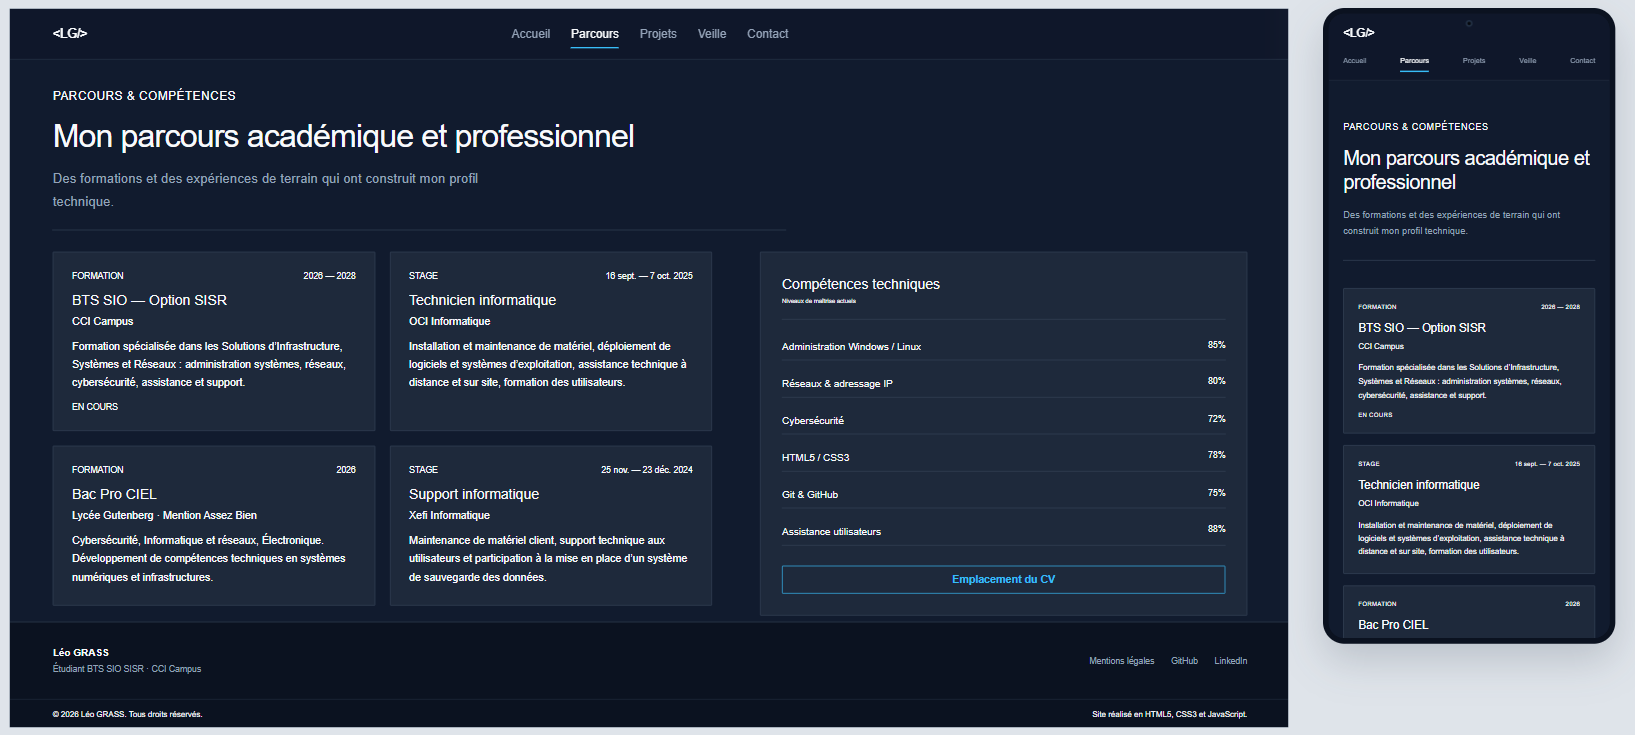
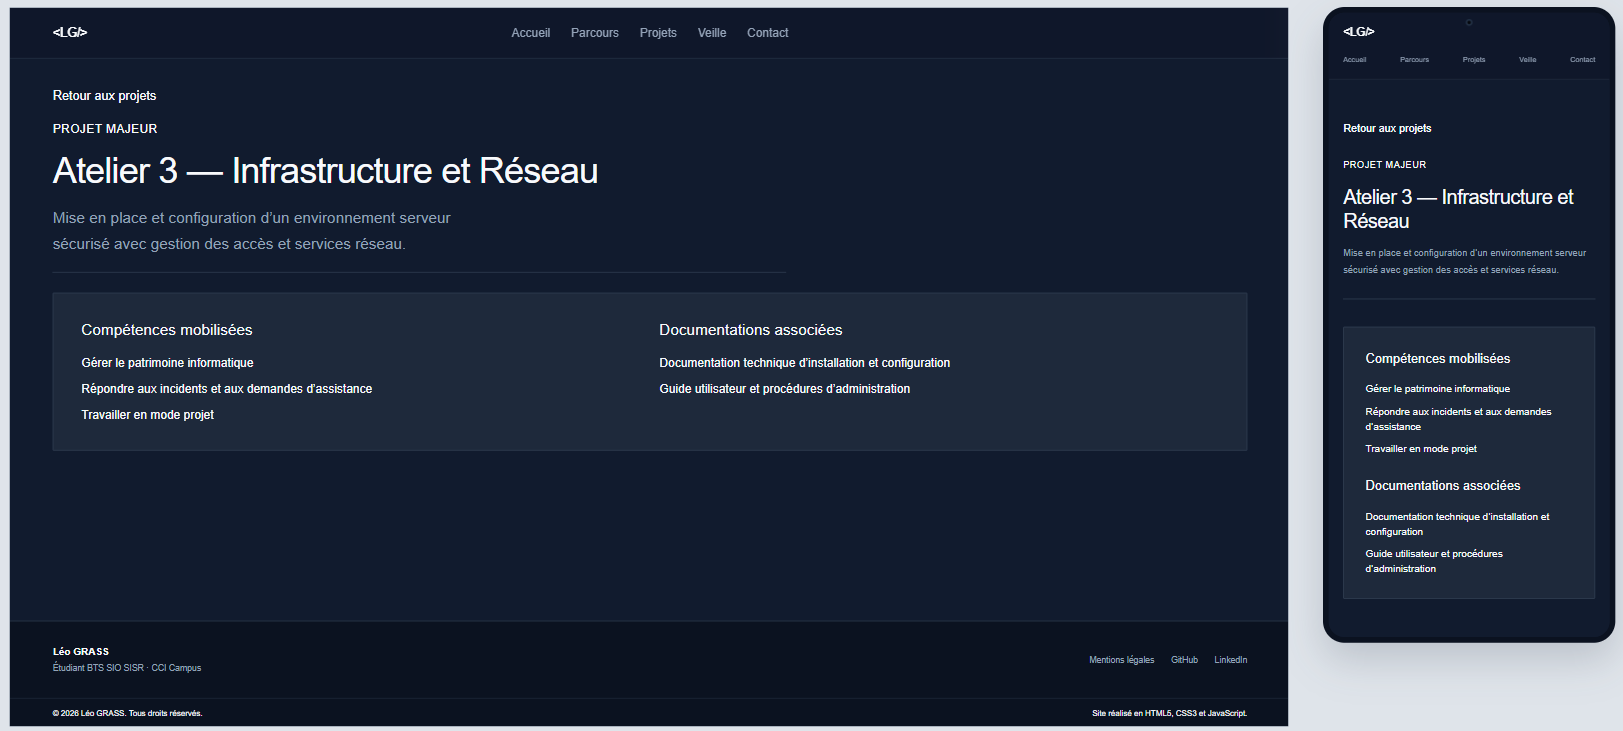
contenu.md

diff --git a/portfolio/documentation/charte.md b/portfolio/documentation/charte.md
@@ -45,7 +45,9 @@ La palette de couleurs principale est déclinée comme suit :
 ### 3.3. Logo, icônes et boutons
 
 - **Logo** : Un monotype ou initiales stylisées `[Initiales]` intégrées dans la barre de navigation.
+
 - **Icônes** : Utilisation de la bibliothèque SVG *Lucide Icons* ou *FontAwesome* (ex: icône GitHub, LinkedIn, messagerie, terminal).
+
 - **Boutons** :
   - *Bouton principal* : Fond cyan `#38BDF8`, texte sombre, coins légèrement arrondis (`border-radius: 6px`).
   - *Bouton secondaire* : Fond transparent avec bordure cyan `#38BDF8`.
@@ -53,17 +55,21 @@ La palette de couleurs principale est déclinée comme suit :
 
 - ## 4. Maquettage responsive du site (Architecture One-Page)
 
-  Lien vers le projet Figma : [Consulter la maquette sur Figma](https://www.figma.com/make/HJfD7oyCAKJSqY9mSZacOg/Sans-titre--copie-?code-node-id=0-6&p=f&t=sAi2nVeUzIo9vDTq-0&fullscreen=1)
+  Lien vers le projet Figma : [Consulter la maquette sur Figma](https://www.figma.com/make/HJfD7oyCAKJSqY9mSZacOg/Portfolio-Maquettage?code-node-id=0-6&p=f&t=cyR3FjnHqyG18H65-0&fullscreen=1)
 
   Le portfolio est structuré sous la forme d'une page unique (`index.html`) regroupant l'ensemble des sections (Accueil, Parcours & Compétences, Projets, Veille technologique et Contact) accessibles par défilement fluide (ancres)[cite: 23, 30].
 
-  ### 4.1. Vue globale — Version Desktop (`index.html`)
+  ### 4.1. Vue globale — Version Desktop/Mobile(
 
-  ![Maquette Version Desktop](medias/maquette-desktop.png)
+  Page Atellier3 :
 
-  ### 4.2. Vue globale — Version Mobile (`index.html`)
+  ![](medias/Page-parcours.png)
 
-  ![Maquette Version Mobile](medias/maquette-mobile.png)
+  Page d'acceuil:
+  
+  ![](medias/Page-d'accueil.png)
+  
+  Page Mention:
 
 ## 5. Logique de navigation dans le site
 

diff --git a/portfolio/documentation/contenu.md b/portfolio/documentation/contenu.md
@@ -22,8 +22,13 @@ Sommaire :
 
 ### 1.1. En-tête et slogan
 - Texte principal : Bienvenue sur mon portfolio professionnel. Je suis étudiant en BTS SIO (Services Informatiques aux Organisations) option SISR.
+
 - Sous-titre : Retrouvez ici l'ensemble de mes projets, de mon parcours et de ma veille technologique.
-- Illustration associée (documentation/medias/accueil.png) : Image de présentation ou avatar du développeur.
+
+- Illustration associée : Image de présentation ou avatar du développeur.
+  
+  ![](medias/Page-d'accueil.png)
+  
   - Description (balise alt) : Illustration représentant un espace de travail informatique et de développement moderne.
 
 ### 1.2. Présentation synthétique
@@ -114,8 +119,8 @@ Sommaire :
 - Contact : mail (pro) : leo.grass@ccicampus.fr mail (perso) : leograss8@gmail.com
 
 ### 6.2. Hébergeur du site
-- Hébergeur : Nom de l'hébergeur / Serveur de démonstration
-- Adresse de l'hébergeur : Adresse physique ou URL de l'hébergeur
+- Hébergeur : ...
+- Adresse de l'hébergeur : ....
 
 ### 6.3. Propriété intellectuelle et données personnelles
 - Droits d'auteur : L'ensemble des contenus présents sur ce site (textes, images, projets) est protégé par le droit d'auteur.
